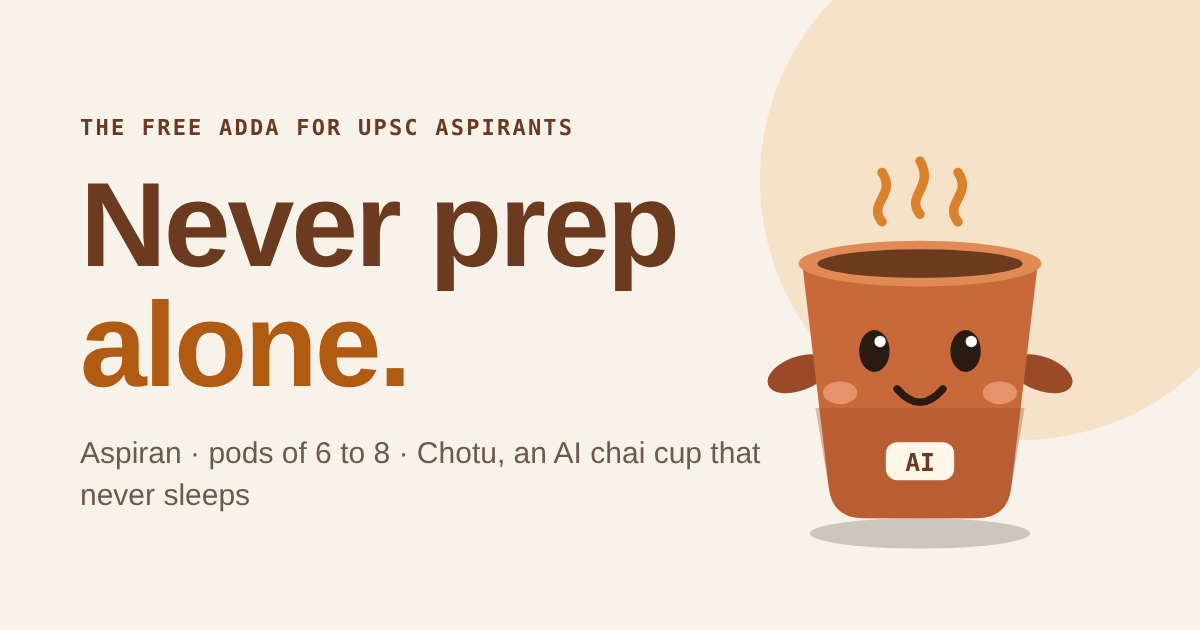
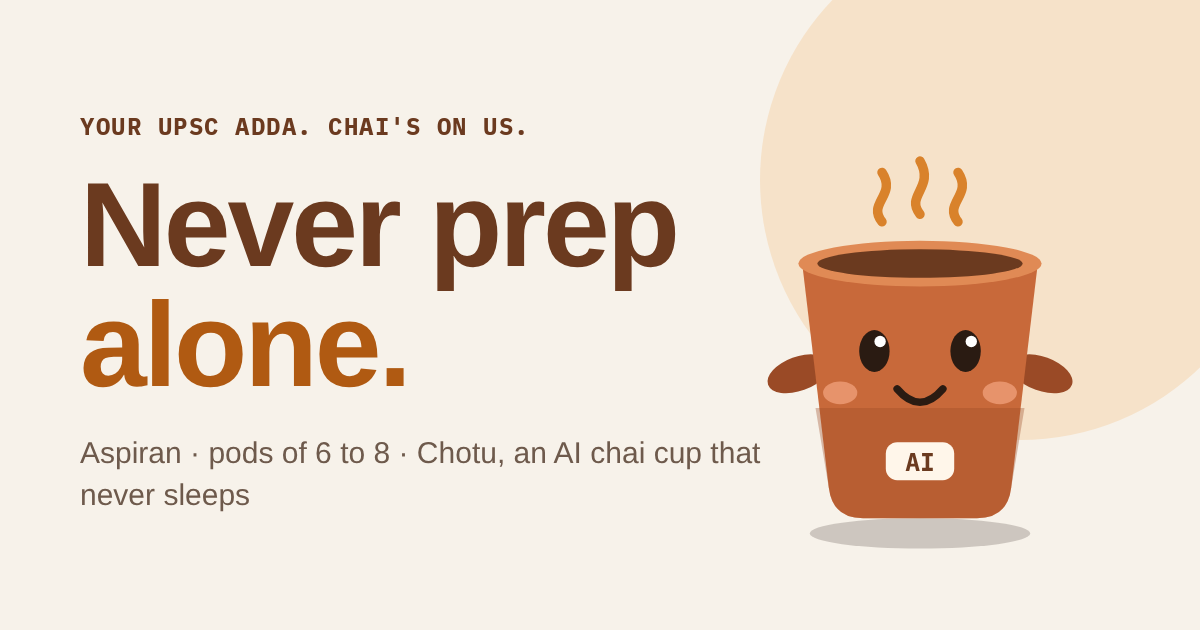
New tagline, remove Formerly UPSC Pods

Changed region(s): [[0.0617, 0.181, 0.4933, 0.2111]]

diff --git a/src/i18n.ts b/src/i18n.ts
@@ -13,11 +13,10 @@ export const en = {
   title: 'Aspiran: the free adda for UPSC aspirants',
   description:
     'Never prep alone. Small pods of 6 to 8 UPSC aspirants, a daily chai of current affairs, and Chotu, an AI chai cup that is up all night. Free to join. Early access on WhatsApp.',
-  formerly: 'formerly UPSC Pods',
   nav: ['How it works', 'Chotu', 'Stories', 'Pricing', 'Questions'],
   join: 'Early access',
   pill: 'Chat on WhatsApp',
-  eyebrow: 'The free adda for UPSC aspirants',
+  eyebrow: "Your UPSC adda. Chai's on us.",
   h1a: 'Never prep',
   h1b: 'alone.',
   lede: 'Your people, your pod, and everything you need to prep, without paying a rupee. A small pod of 6 to 8 aspirants at your stage checks on you and sits with you on the heavy days. Chotu, your AI chai cup, is up all night for the rest.',
@@ -192,11 +191,10 @@ export const hi: typeof en = {
   title: 'Aspiran: UPSC अभ्यर्थियों का मुफ़्त अड्डा',
   description:
     'अकेले तैयारी मत करो। 6 से 8 अभ्यर्थियों के छोटे पॉड, रोज़ की चाय, और छोटू, रात भर जागने वाला AI कुल्हड़। जुड़ना मुफ़्त। WhatsApp पर अर्ली एक्सेस।',
-  formerly: 'पहले UPSC Pods',
   nav: ['कैसे चलता है', 'छोटू', 'कहानियाँ', 'क़ीमत', 'सवाल'],
   join: 'अर्ली एक्सेस',
   pill: 'WhatsApp पर बात करें',
-  eyebrow: 'UPSC अभ्यर्थियों का मुफ़्त अड्डा',
+  eyebrow: 'आपका UPSC अड्डा। चाय हमारी तरफ़ से।',
   h1a: 'अकेले तैयारी',
   h1b: 'मत करो।',
   lede: 'आपके लोग, आपका पॉड, और तैयारी का सब कुछ, एक रुपया दिए बिना। आपके चरण के 6 से 8 अभ्यर्थियों का छोटा पॉड आपका हाल पूछता है और भारी दिनों में साथ बैठता है। बाकी रात भर आपका AI कुल्हड़ छोटू जागता है।',

diff --git a/GO-LIVE.md b/GO-LIVE.md
@@ -94,8 +94,7 @@ to see the preview card.
 2. **Save the form answers somewhere.** Right now the form opens WhatsApp with the answers filled in, so you see them
    in the chat. To also keep a list, make a free Formspree or Web3Forms form and paste its URL into `FORM_ENDPOINT`
    in `src/i18n.ts`. If you do, name the service on the Privacy page.
-3. **Videos.** "Akela Nahi" still has "UPSC Pods" printed inside it. Re-render it as Aspiran, then replace
-   `public/media/akela-nahi.mp4` and its poster. Vocals are still to be recorded.
+3. **Videos.** "Akela Nahi" is now branded Aspiran. Vocals are still to be recorded.
 4. **Analytics.** Paste your Umami website ID into `UMAMI_WEBSITE_ID` in `src/layouts/BaseLayout.astro`.
    Every button reports where it was tapped (`cta-join`, `cta-whatsapp`, `form-submit`).
 5. **Facts to confirm.** Plus at ₹9,999 a year, "from December 2026", "1 in 540 selected", "eligible candidates can

diff --git a/README.md b/README.md
@@ -1,6 +1,6 @@
 # Aspiran web
 
-The home page for aspiran.in (formerly UPSC Pods). Astro, static, one page plus a 404.
+The home page for aspiran.in. Astro, static, one page plus a 404.
 
 ```
 npm install
